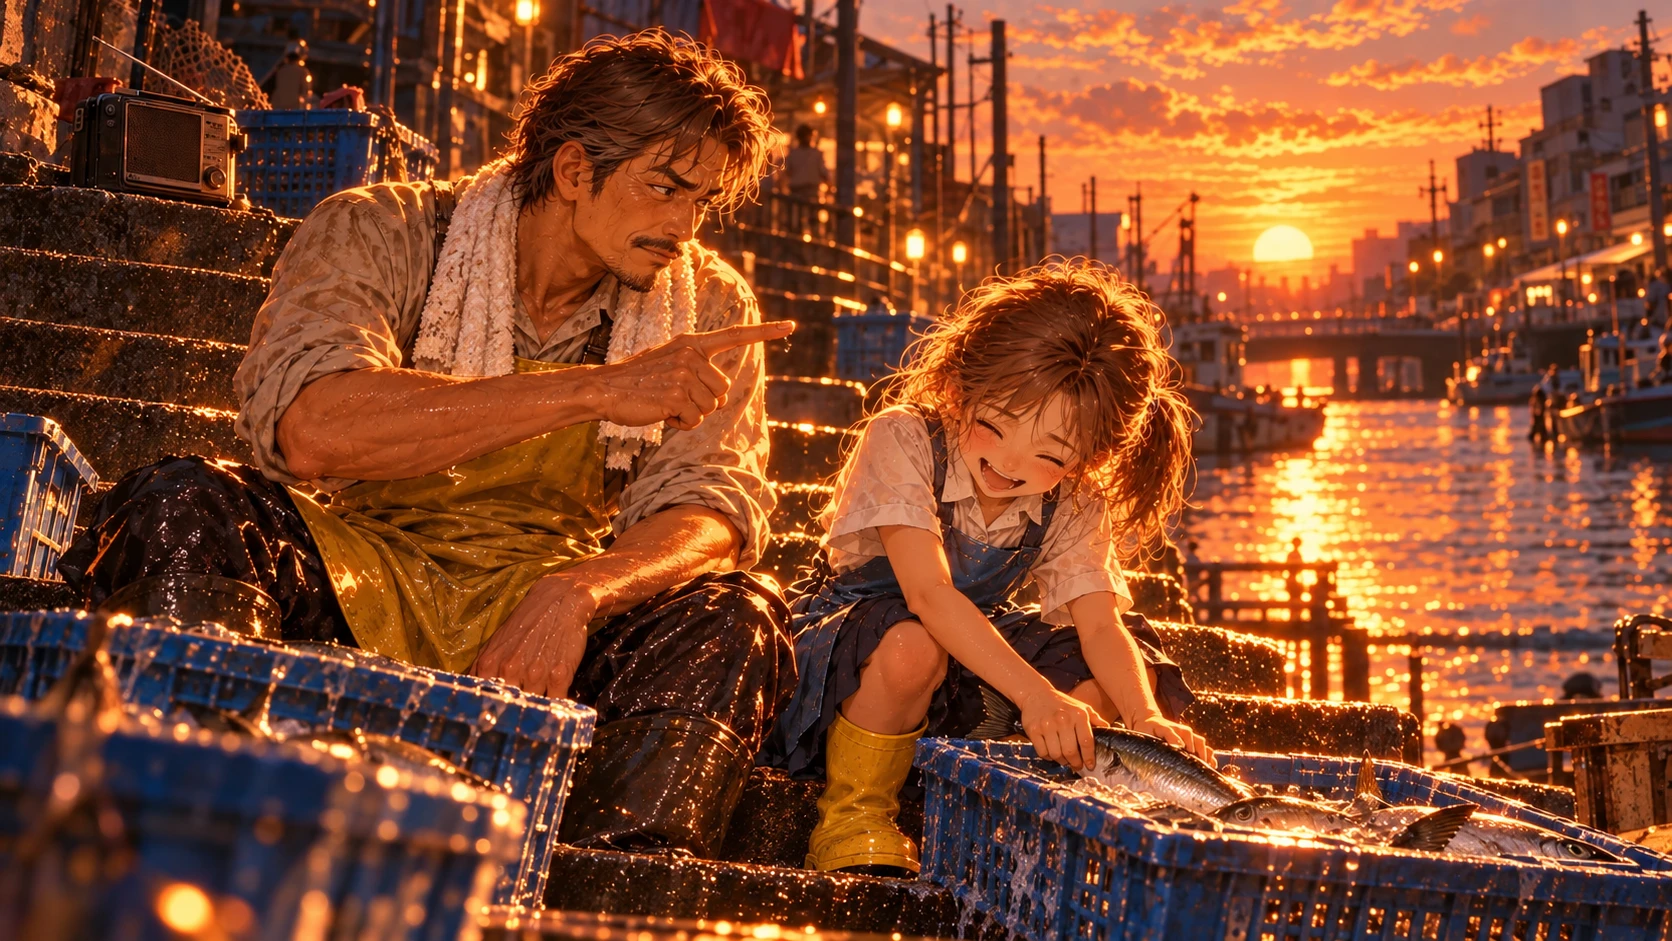
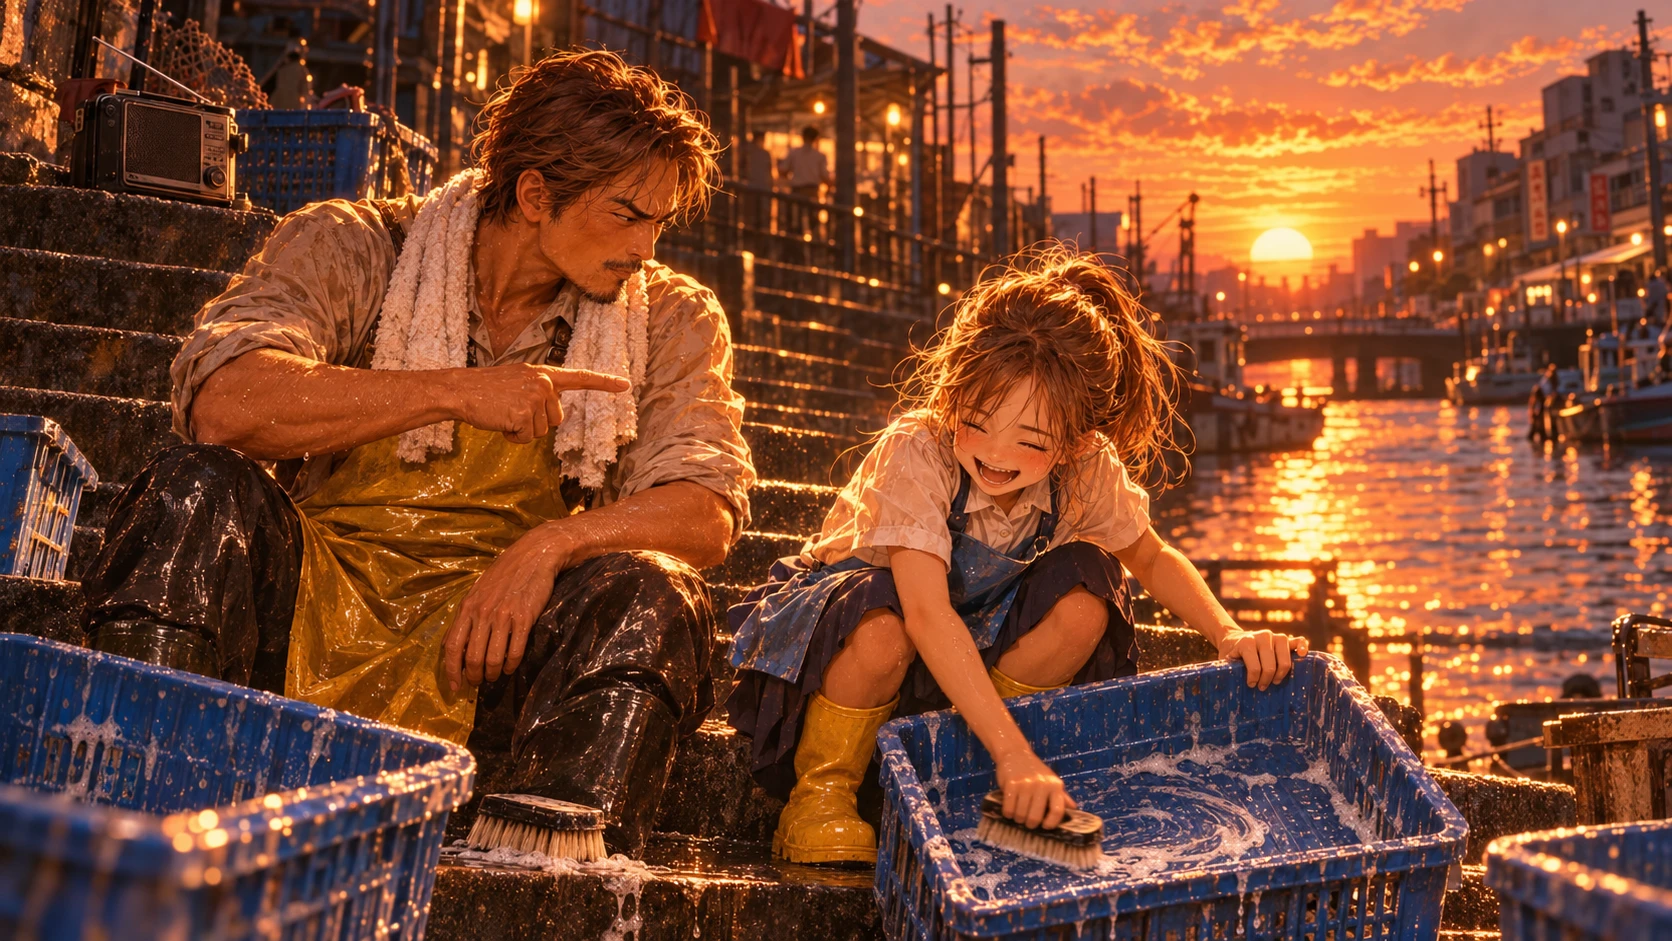
CG：石階洗魚箱兩張改成空箱子（回饋：洗箱子裡怎麼會有魚）

diff --git a/art/storyboard.py b/art/storyboard.py
@@ -118,8 +118,8 @@ SHOTS = {
     's_market_3': ('market', '余伯跟著哼', ['father', 'yu_9', 'tao_35'], '1988, the same fish stall at dusk: the father hums along to an old plastic portable radio on the stall, tapping the beat with his palm on his rubber apron; the little girl holding the hose looks up at him, laughing and shaking her head. In the background at the neighbouring vegetable stall, young Ah-Tao (Reference 5) stacks vegetable baskets, clearly visible but smaller in frame.', 's_market_1'),
     's_market_4': ('market', '余伯拿起秤旁最大的一尾魚', ['father', 'yu_9', 'tao_35'], 'Same stall: the father wraps the biggest fish in old newspaper beside a hanging scale and holds it out to the little girl; she stares at the big fish, arms half out, surprised. In the background at the neighbouring vegetable stall, young Ah-Tao (Reference 5) stacks vegetable baskets, clearly visible but smaller in frame.', 's_market_1'),
     's_market_5': ('market', '她兩手抓住大魚箱的邊緣', ['yu_9', 'father', 'tao_35'], 'Same stall: the little girl grips the edge of a big blue plastic fish crate with both hands, straining, the crate barely off the wet floor; her father reaches over smiling to take it. In the background at the neighbouring vegetable stall, young Ah-Tao (Reference 5) stacks vegetable baskets, clearly visible but smaller in frame.', 's_market_1'),
-    's_market_6': ('market', '余伯把刷子一放', ['father', 'yu_9'], 'On the old stone canal steps at dusk, by the water: the father has put down his scrubbing brush and turns to glare at his daughter in mock anger; she crouches beside him over a fish crate, giggling, head down.', 's_market_2'),
-    's_market_7': ('market', '石階上方的路燈亮了', ['father', 'yu_9'], 'Dusk turning to night on the stone canal steps: a street lamp at the top has just come on; the father carries the big fish crate and stands one step above, waiting and looking back down at the little girl who hugs the small crate.', 's_market_2'),
+    's_market_6': ('market', '余伯把刷子一放', ['father', 'yu_9'], 'On the same old stone canal steps at dusk as Reference 2, by the water: the father has put his scrubbing brush down on the step and turns to glare at his daughter in mock anger; she crouches beside him, giggling with her head down, scrubbing the bottom of an EMPTY blue plastic fish crate with a brush. The crates are completely empty, just wet plastic, soapy water and scrub brushes; the fish were all sold at the stall.', 's_market_2'),
+    's_market_7': ('market', '石階上方的路燈亮了', ['father', 'yu_9'], 'Dusk turning to night on the same stone canal steps as Reference 2: a street lamp at the top of the steps has just come on; the father carries the big blue fish crate, washed and EMPTY, dripping water, and stands one step above, waiting and looking back down at the little girl who hugs the small EMPTY washed crate. The crates are completely empty, clean wet plastic; a scrub brush lies inside the big crate.', 's_market_2'),
     's_livehouse_2': ('livehouse', '她接過筆', ['yu_22'], '2001, side of the small stage of a crowded Taipei live house at night: the young singer takes a pen from a staff member holding a setlist clipboard and strikes a line through the middle character of her name on it (no readable text), smiling.', 's_livehouse_1'),
     's_livehouse_3': ('livehouse', '最後一首', ['yu_22'], 'Same live house: the young singer at the microphone stand on the low stage, eyes closed, singing; at a front table a customer laughs with a beer in hand.', 's_livehouse_1'),
     's_livehouse_4': ('livehouse', '椅子等我唱完再收', ['yu_22'], 'Same live house after her last song: she has lowered the microphone and turns politely to a staff member who is lifting a chair onto a table; she raises one hand asking him to wait.', 's_livehouse_1'),
